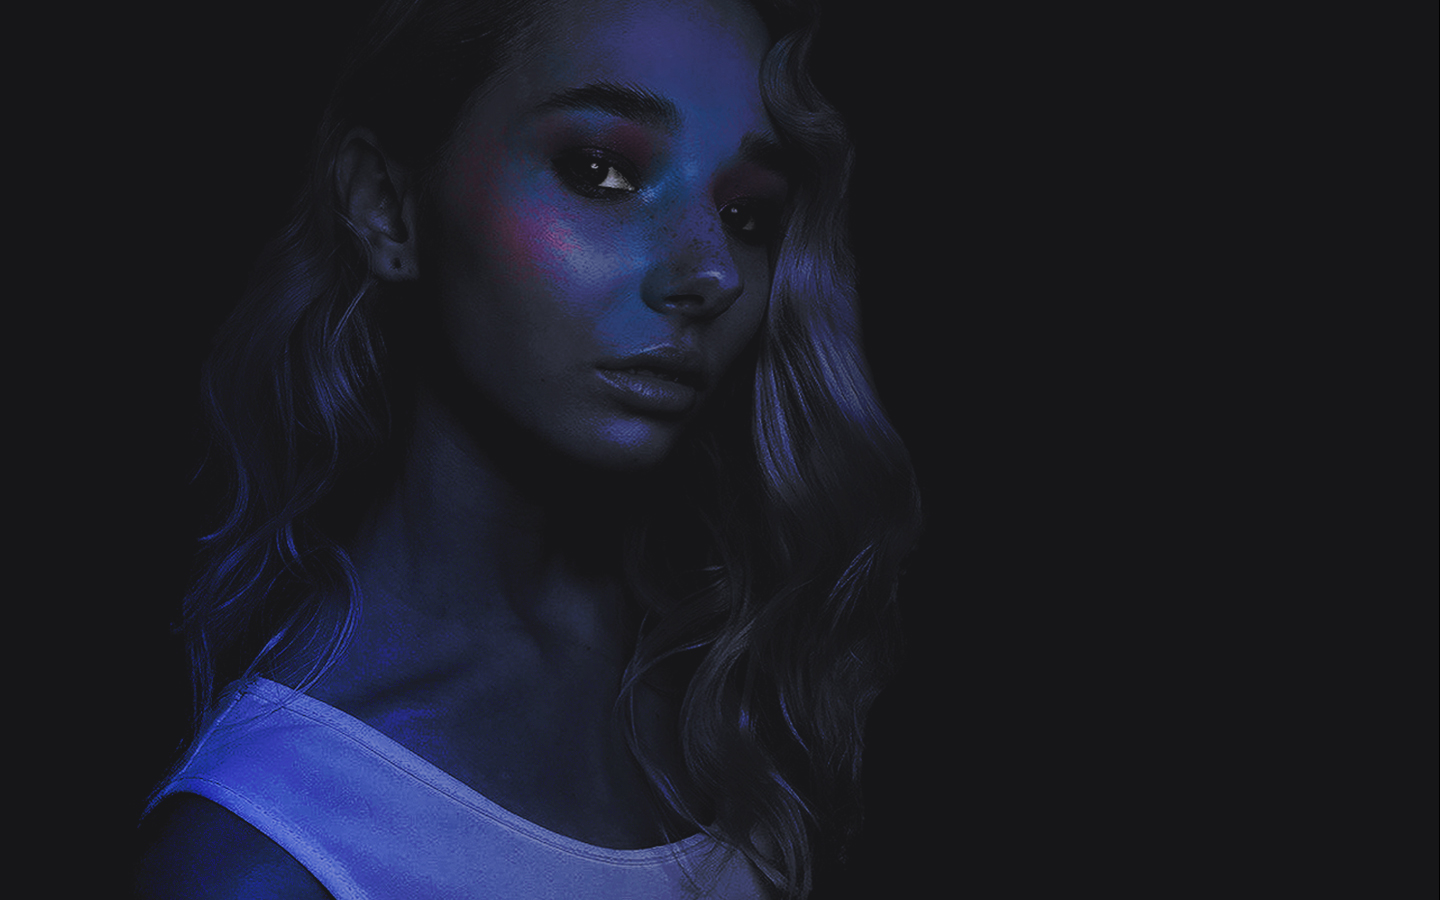
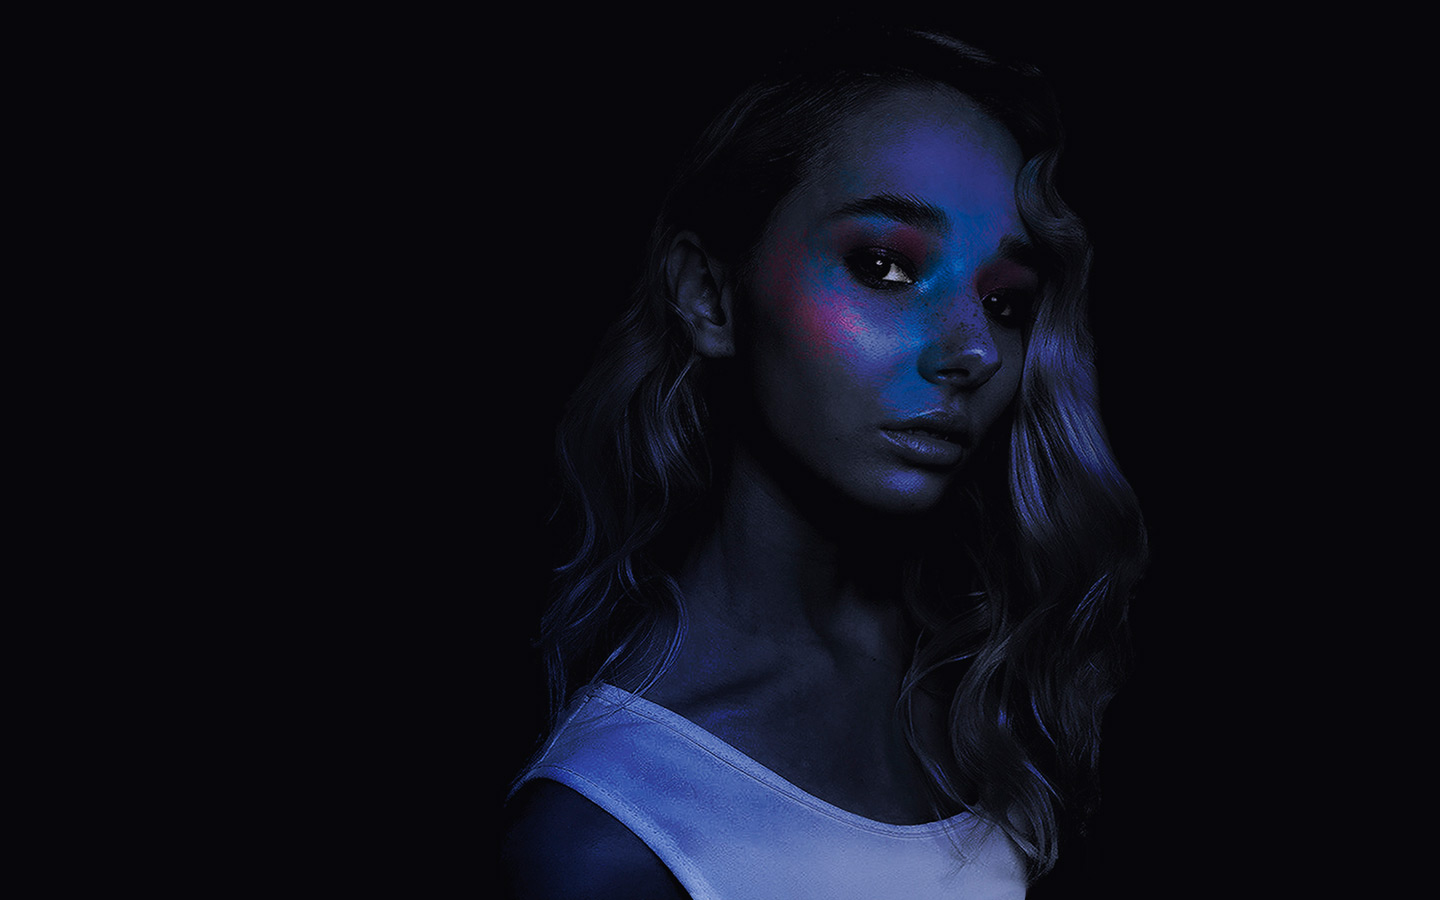
still working on slider

diff --git a/index.html b/index.html
@@ -7,19 +7,19 @@
     <title>Beauty Job</title>
 </head>
 <body>
-<!--<div class="main_slider_img_block">
+<div class="main_slider_img_block siema">
     <ul class="slides_list">
         <li class="slide_item"><img src="assets/img/main_background_01.jpg"></li>
         <li class="slide_item"><img src="assets/img/main_background_02.jpg"></li>
         <li class="slide_item"><img src="assets/img/main_background_03.jpg"></li>
         <li class="slide_item"><img src="assets/img/main_background_04.jpg"></li>
     </ul>
-</div>-->
+</div>
 <div class="wrapper">
     <div class="side_bar_left">
         <div class="slider_counter_block_outside">
             <div class="slider_counter_text_block">
-                <span class="slider_counter_active text_color_white">05</span>
+                <span class="slider_counter_active text_color_white">01</span>
                 <span class="slider_counter_divider">/</span>
                 <span class="slider_counter_average">05</span>
             </div>
@@ -56,7 +56,7 @@
         </div>
         <div class="slider_counter_block_inside">
             <div class="slider_counter_text_block">
-                <span class="slider_counter_active text_color_white">05</span>
+                <span class="slider_counter_active text_color_white">01</span>
                 <span class="slider_counter_divider">/</span>
                 <span class="slider_counter_average">05</span>
             </div>
@@ -70,12 +70,14 @@
         </div>
         <div class="slide_changer">
             <ul>
-                <li class="slide_stripe"></li>
-                <li class="slide_stripe"></li>
-                <li class="slide_stripe"></li>
-                <li class="slide_stripe"></li>
                 <li class="slide_stripe slide_stripe_active"></li>
+                <li class="slide_stripe"></li>
+                <li class="slide_stripe"></li>
+                <li class="slide_stripe"></li>
+                <li class="slide_stripe"></li>
             </ul>
+            <div class="slide_changer_next">next</div>
+            <div class="slide_changer_prev">prev</div>
         </div>
         <div class="social_links_block">
             <ul class="social_links_list">

diff --git a/assets/css/style.css b/assets/css/style.css
@@ -178,7 +178,7 @@ slides_list {
 
 .slider_text_quotes:before {
     content: '<';
-    color: #F14ABC;
+    color: #60626B;
     font-size: 100px;
     margin-right: 10px;
 }
@@ -187,7 +187,8 @@ slides_list {
     content: '>';
     font-size: 100px;
     margin-left: 10px;
-    color: #60626B;
+    color: #F14ABC;
+
 }
 
 .contacts_on_page {
@@ -275,26 +276,26 @@ slides_list {
     display: block;
 }
 
-.slide_changer:before {
+.slide_changer_next {
     display: block;
     position: absolute;
     right: 0;
     top: -34px;
-    content: 'next';
-    color: #60626B;
+    color: white;
     text-transform: uppercase;
     font-weight: 700;
+    cursor: pointer;
 }
 
-.slide_changer:after {
+.slide_changer_prev {
     display: block;
     position: absolute;
     right: 0;
     top: 18px;
-    content: 'prev';
-    color: white;
+    color: #60626B;
     text-transform: uppercase;
     font-weight: 700;
+    cursor: pointer;
 }
 
 .slide_stripe {
@@ -340,4 +341,35 @@ slides_list {
 
 .slider_counter_average {
     font-weight: 700;
+}
+
+.main_slider_img_block {
+    display: block;
+    position: absolute;
+    top: 0;
+    left: 0;
+    width: 100vw;
+    min-width: 1440px;
+    height: 100vh;
+    overflow: hidden;
+}
+
+.slides_list {
+    display: block;
+    position: absolute;
+    left: 0;
+    width: 1000%;
+    height: 100%;
+    transition: left 1s ease;
+}
+
+.slide_item {
+    display: block;
+    float: left;
+    width: 10%;
+    height: 100%;
+}
+
+.slide_item img {
+    width: 100%;
 }

diff --git a/assets/js/main.js b/assets/js/main.js
@@ -1,24 +1,29 @@
-var block = document.getElementsByClassName('slogan_text')[0];
+const nextButton = document.getElementsByClassName('slide_changer_next')[0];
+const prevButton = document.getElementsByClassName('slide_changer_prev')[0];
+const slidesList = document.getElementsByClassName('slides_list')[0];
+const maxIndex = document.getElementsByClassName('slide_item').length;
 
-var initialText = block.innerHTML;
+let index = 0;
+console.log(index);
+console.log(maxIndex);
 
-var slideList = document.getElementsByClassName('slide_item');
-console.log(slideList);
-
-function changeSlide() {
-    for (i=0; i<slideList.length; i++) {
-        console.log(slideList[i].style.left);
-        console.log(slideList[i]);
-        slideList[i].style.left = '-100%';
-    }
-}
-
-/*function changeText () {
-    if (block.innerHTML !== 'pshe') {
-    block.innerHTML = 'pshe';
+nextButton.onclick = function () {
+    if (index < maxIndex) {
+        index = index + 1;
+        slidesList.style.left = '-' + index + '00%';
     } else {
-        block.innerHTML = initialText;
+        index = 0;
     }
-}*/
+    console.log('after click on NEXT index = ' + index);
+};
 
-block.onclick = changeSlide;
+prevButton.onclick = function () {
+    if (index = 1) {
+        index = maxIndex-1;
+        slidesList.style.left = '-' + index + '00%';
+    } else {
+        index = index-1;
+        slidesList.style.left = '-' + index + '00%';
+    }
+    console.log('after click on PREV index = ' + index);
+};
